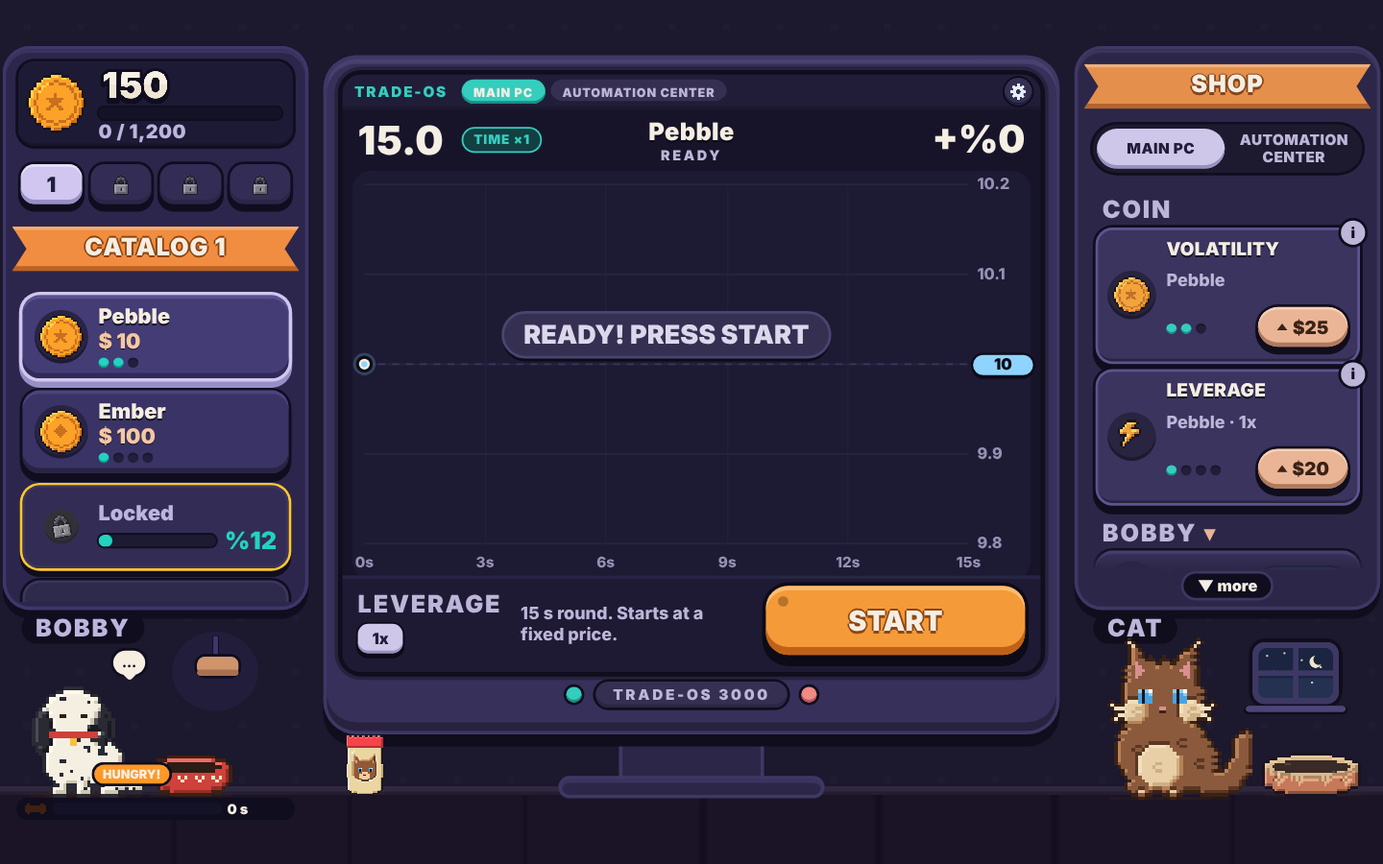
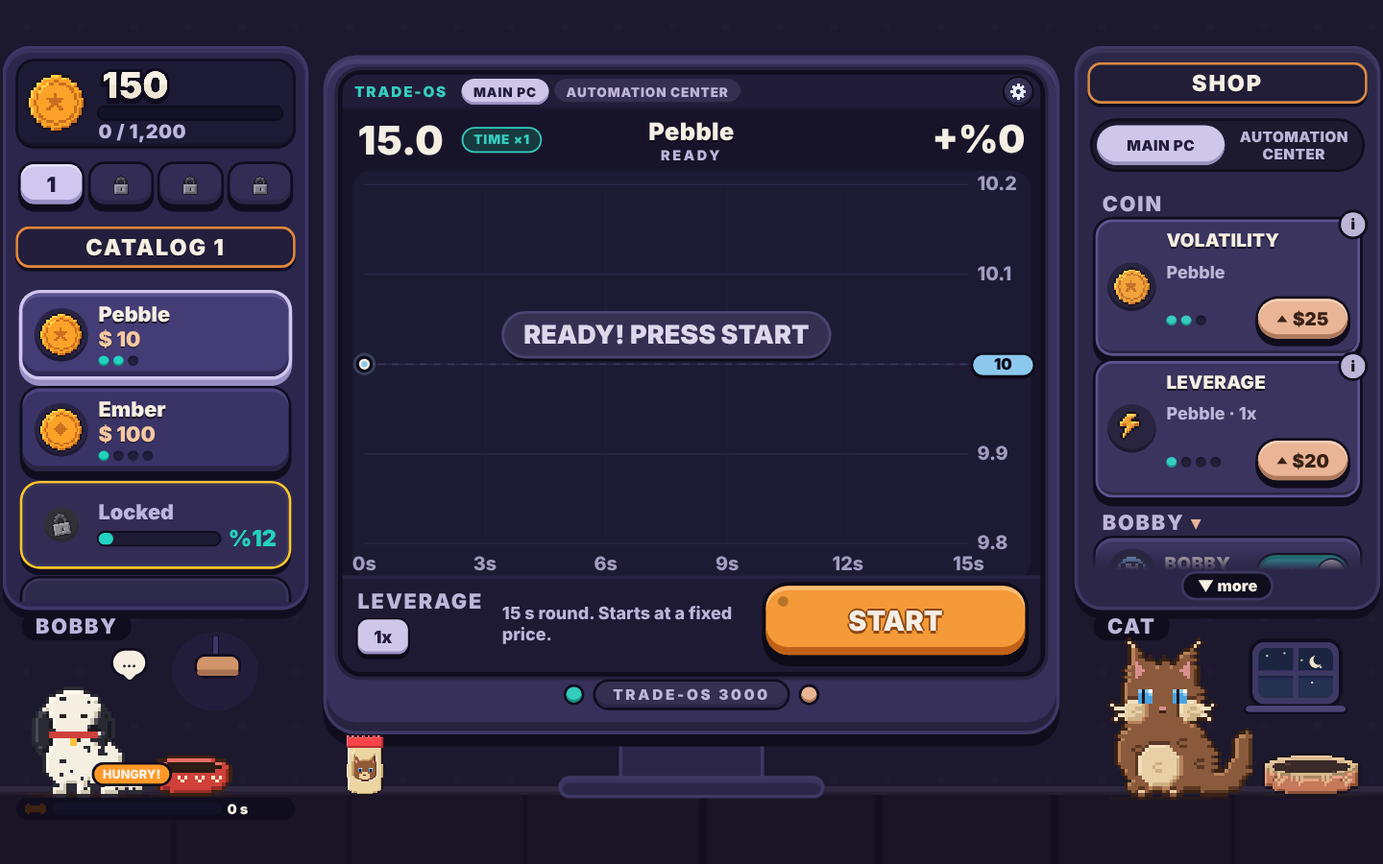
Tasarım Tur2 Adım 3: monitör, grafik, işlem butonları; Ortak tavsiye 2 — smoke 63/63
Claude-Session: https://claude.ai/code/session_01VDVDeJVYoXzWZHeVKGLAfX

diff --git a/index.html b/index.html
@@ -810,7 +810,6 @@ body.rm .pl{animation:none!important}
 /* hayvan alanı etiketleri (BOBBY / KEDİ) */
 .botp .cap,body.soft .botp .cap{font:900 28px/36px var(--k-fr)!important;padding:0 16px!important;top:2px!important}
 /* monitör: altın sayısı bire insin (Ortak tavsiye 1 · madde 2) */
-#hN{color:var(--k-tx)!important}
 .chin span{background:#353052!important;color:var(--k-tx2)!important;box-shadow:0 0 0 3px var(--k-ol),inset 0 -4px 0 #2A2644!important}
 #lvr{font-size:28px!important}#lvr span{line-height:1.1}
 #lvr .pbtn.ac{background:var(--k-li)!important;color:var(--k-lit)!important;box-shadow:0 0 0 2px #0D0B17,0 4px 0 2px #0D0B17,inset 0 -3px 0 var(--k-lid)!important}
@@ -839,6 +838,72 @@ body.rm .pl{animation:none!important}
 #bbub{top:46px!important}
 /* "daha fazla" için panelin içinde ayrı alt şerit: hiçbir kartı örtmez */
 #shop,body.soft #shop{margin-bottom:36px!important}
+
+/* =====================================================================
+   TUR 2 / ADIM 3 — monitör, grafik, işlem butonları, haber, boss, robot bölmeleri, fiş, kâr balonu
+   Kâr = nane (#62CDAA, ▲) · zarar = kehribar (#C9A07A, ▼) · nötr = gök (#8CC8EE). Kırmızı-yeşil yok, nabız yok.
+   ===================================================================== */
+/* sistem çubuğu: seçili sekme lila-krem (seçili dili) */
+.osbar .tabs button.on{background:var(--k-li)!important;color:var(--k-lit)!important;box-shadow:inset 0 -3px 0 var(--k-lid)!important}
+.osbar .tabs button{height:30px!important;font-size:15px!important}
+.chin .pled:last-child{background:var(--k-pe)!important;box-shadow:0 0 0 3px var(--k-ol),inset 0 -3px 0 var(--k-ped)!important}
+/* üst bilgi */
+#hPs{font-size:17px!important}
+#lcdT{background:#173A3E!important}
+/* kaldıraç seçimi: daha büyük dokunma hedefi */
+#lvr .pbtn{height:40px!important;min-width:58px!important;font-size:20px!important}
+/* ana düğme: AL turkuaz bir ton sakin */
+#main.buy{background:#3CC2B4!important;box-shadow:0 0 0 4px #0D0B17,0 9px 0 4px #0D0B17,inset 0 5px 0 #7DD8CD,inset 0 -9px 0 #1C8A7F!important}
+#main:disabled{background:#332E50!important;color:#A39DBE!important}
+/* haber bandı: nötr; etiket lila hap, yanıp sönme yok */
+#news{background:#2E2A4C!important;box-shadow:inset 0 -4px 0 #24203C!important;color:var(--k-tx)!important}
+#news b{background:#5A5288!important;color:var(--k-tx)!important}
+/* boss: sakin, sabit ve ince gül-mor iç kenar */
+.screen.bossin::before{box-shadow:inset 0 0 0 4px #7A5674!important}
+/* otomasyon bölmeleri: boş bölme okunur, kilitli soluk değil sakin */
+.tile.lock{opacity:1!important}
+.tile,.tile:nth-child(odd){background:#1E1A35!important;box-shadow:0 0 0 4px #2E2A4A,inset 0 0 0 1px #2E2A4A!important}
+.tile.add{box-shadow:0 0 0 4px var(--k-pe)!important}
+/* tur sonu fişi: kâr nane ▲, zarar kehribar ▼ */
+#receipt .up{color:#7FD8BC!important}#receipt .dn{color:#C9A27E!important}
+#receipt .rw span.up::before{content:'▲ '}#receipt .rw span.dn::before{content:'▼ '}
+#receipt h3.up{color:#7FD8BC!important}#receipt h3.dn{color:#C9A27E!important}
+/* kâr balonu: nane, toplam 600 ms (≤180 ms pop) */
+.pl{animation:k3pl2 .6s cubic-bezier(.2,1.2,.5,1) forwards!important}
+.pl.win{background:#123A30!important;box-shadow:0 0 0 3px #62CDAA,0 5px 0 3px var(--k-ol)!important}
+.pl.loss{background:var(--k-pn)!important;box-shadow:0 0 0 3px #6E6894!important}
+@keyframes k3pl2{0%{transform:translate(-50%,-50%) scale(.6);opacity:0}30%{transform:translate(-50%,-50%) scale(1.06);opacity:1}45%{transform:translate(-50%,-50%) scale(1)}80%{opacity:1}100%{transform:translate(-50%,-110%) scale(1);opacity:0}}
+body.rm .pl{animation:none!important;transform:translate(-50%,-50%)!important}
+/* sistemin "hareketi azalt" tercihi: pop, squish ve kayma kapalı (renk + sayı değişimi sürer) */
+@media (prefers-reduced-motion:reduce){.pl{animation:none!important;transform:translate(-50%,-50%)!important}
+ #main,#right .go,.tb,.tk,.mbtn,#lvr .pbtn,.sw,.sw i,#receipt.out{transition:none!important;animation:none!important}
+ #main:active,#right .go:active,.tb:active,.tk:active,.mbtn:active,#lvr .pbtn:active{transform:none!important}}
+
+
+/* üst bilgi: coin adı krem (boss'ta sönük gül), büyük yüzdenin önünde küçük ▲/▼ şekli */
+#hN{color:var(--k-tx)!important}.screen.bossin #hN{color:#E6C3D2!important}
+#hP[data-d=up]::before,#hP[data-d=dn]::before{display:inline-block;font-size:26px;vertical-align:middle;margin:-6px 8px 0 0}
+#hP[data-d=up]::before{content:'▲'}#hP[data-d=dn]::before{content:'▼'}
+/* ---- Ortak tavsiye 2 ---- */
+/* afişler: koyu nötr dolgu + ince turuncu kenar (dolgu doygunluğu %29), krem yazı; şerit uçları yok */
+.sign,#sign,#msign,body.soft .sign,#robsec .rsign{clip-path:none!important;border-radius:16px!important;background:#221E38!important;color:var(--k-tx)!important;
+ box-shadow:inset 0 0 0 3px #D98A45,0 4px 0 0 var(--k-ol)!important;text-shadow:0 2px 0 var(--k-ol)!important;height:48px!important;line-height:48px!important;margin:12px 8px 8px!important;font-size:26px!important;letter-spacing:2px!important}
+#robsec .rsign{font-size:18px!important;letter-spacing:.5px!important;padding:0 12px!important;height:44px!important;line-height:44px!important;margin:14px 0 8px!important}
+/* alınamaz hap: yazı tam okunur (5.6:1), kenar kartın üstünde 3.2:1 */
+#right .go[data-dis],#right .go.unl[data-dis]{color:#DDD7EC!important;box-shadow:0 0 0 2px #8A84AA,0 0 0 4px var(--k-ol),0 6px 0 4px var(--k-ol),inset 0 -5px 0 #39345A!important}
+#right .go[data-dis] i.up{border-bottom-color:#DDD7EC!important}
+/* etiketler: masaüstünde 24 px (telefonda fit() ile ≥12 px, Adım 4) */
+.shd,#right .shd{font-size:24px!important}
+.br small,#right .sc.bob .br small,body.soft .br small{font-size:24px!important}
+.botp .cap,body.soft .botp .cap{font-size:24px!important;line-height:32px!important}
+#lvr{font-size:24px!important}
+.tk .lkp small{font-size:26px}
+/* kâr pop'u: tek hareket (yumuşak yükselip kaybolma), 600 ms; zararda animasyon yok */
+.pl{animation:k3pl3 .6s ease-out forwards!important}
+@keyframes k3pl3{0%{transform:translate(-50%,-30%);opacity:0}20%{opacity:1}75%{opacity:1}100%{transform:translate(-50%,-90%);opacity:0}}
+.pl.loss{animation:none!important;transform:translate(-50%,-50%)!important}
+body.rm .pl{animation:none!important;transform:translate(-50%,-50%)!important}
+@media (prefers-reduced-motion:reduce){.pl{animation:none!important;transform:translate(-50%,-50%)!important}}
 </style><style>/* === TELEFON: hep yatay oyun (dikeyde 90° döndürülür), sayfa kaymaz, çift dokunuşta büyümez === */
 html,body{position:fixed;inset:0;width:100%;height:100%;overflow:hidden;margin:0;overscroll-behavior:none;-webkit-user-select:none;user-select:none;-webkit-touch-callout:none;-webkit-tap-highlight-color:transparent;-webkit-text-size-adjust:100%}
 *{touch-action:manipulation}canvas,img{-webkit-user-drag:none}#list,#shop,.modal .mp,#mb{touch-action:pan-x pan-y;-webkit-overflow-scrolling:touch}
@@ -1490,8 +1555,8 @@ const overBowl=(x,y)=>{const r=$('#bowl').getBoundingClientRect();return x>=r.le
 function floatText(t,x,y,col){const d=document.createElement('div');d.className='ft';d.textContent=t;d.style.cssText=`left:${x}px;top:${y}px;color:${col}`;document.body.appendChild(d);setTimeout(()=>d.remove(),1000)}
 const NF=[];
 function notifyPL(pl){if(pl===0n)return;const now=performance.now();while(NF.length&&now-NF[0]>1400)NF.shift();const n=NF.length;NF.push(now);
- const d=document.createElement('div');d.className='pl '+(pl>0n?'win':'loss');d.textContent=(pl>0n?'+$':'-$')+cp(pl);d.style.cssText=`left:${clamp(PX+(n%2?26:-26),60,innerWidth-60)}px;top:${clamp(PY-22-n*28,30,innerHeight-20)}px;color:${pl>0n?'#FFC83D':'#BDB6D8'}`;
- document.body.appendChild(d);setTimeout(()=>d.remove(),1150)}
+ const d=document.createElement('div');d.className='pl '+(pl>0n?'win':'loss');d.textContent=(pl>0n?'+$':'-$')+cp(pl);d.style.cssText=`left:${clamp(PX+(n%2?26:-26),60,innerWidth-60)}px;top:${clamp(PY-22-n*28,30,innerHeight-20)}px;color:${pl>0n?'#8FE0C4':'#BDB6D8'}`;
+ document.body.appendChild(d);setTimeout(()=>d.remove(),650)}
 function moveFl(x,y){const c=fl.firstChild;if(c){const cw=c.offsetWidth||c.width,ch=c.offsetHeight||c.height;fl.style.left=x-cw/2+'px';fl.style.top=y-ch/2+'px';const w=cw*1.25;flsh.style.width=w+'px';flsh.style.left=x-w/2+'px';flsh.style.top=y+ch/2+18+'px'}}
 function startDrag(kind,e){if(G.drag||G.drink||S.over)return;G.drag=kind;fl.innerHTML='';{const c=kind==='water'?sackCanvas2(3):sackCanvas(4);if(kind==='water'){c.style.width=FBW*stK()+'px';c.style.height=FBH*stK()+'px'}fl.appendChild(c)}fl.className='tilt';fl.style.display='block';flsh.style.display='block';PX=e.clientX;PY=e.clientY;moveFl(PX,PY);$('#bowl').classList.add('hot')}
 $('#foodw').addEventListener('pointerdown',e=>{if(G.drag||G.drink||S.over)return;e.preventDefault();
@@ -1704,19 +1769,19 @@ function drawTile(i,now){const cv=$('#tc'+i);if(!cv)return;const tile=cv.parentN
  const d=window.devicePixelRatio||1,r=cv.getBoundingClientRect(),W=tile.offsetWidth||200,H=tile.offsetHeight||190,w=Math.max(8,Math.round(r.width*d)),hh=Math.max(8,Math.round(r.height*d));if(cv.width!==w||cv.height!==hh){cv.width=w;cv.height=hh}
  const x=cv.getContext('2d'),k=cv.width/W;x.setTransform(k,0,0,k,0,0);x.fillStyle='#1E1A35';x.fillRect(0,0,W,H);x.textBaseline='middle';x.textAlign='center';
  if(i>=n){if(i===n&&n<RMAX){const ok=afford(RSLOT[n]);x.fillStyle='#E9B596';x.font='900 46px '+KF;x.fillText('+1',W/2,H/2-26);x.font='900 20px '+KF;x.fillText(TT('ROBOT EKLE'),W/2,H/2+10);x.font='900 20px '+KF;x.fillStyle=ok?'#F0C9A8':'#BDB6D8';x.fillText('$'+cp(RSLOT[n]),W/2,H/2+34)}
-  else{x.fillStyle='#5E5888';x.font='900 16px '+KF;x.fillText(TT('BOŞ BÖLME'),W/2,H/2)}x.textAlign='left';return}
+  else{rr(x,10,10,W-20,H-20,14);x.setLineDash([8,8]);x.lineWidth=2;x.strokeStyle='#3E3864';x.stroke();x.setLineDash([]);x.fillStyle='#A39DC0';x.font='900 20px '+KF;x.fillText(TT('BOŞ BÖLME'),W/2,H/2)}x.textAlign='left';return}
  const R=S.rb[i],rt=RBT[i],c=COINS[R.ci],fr=rt?Math.floor(now/420+i)%2:0;x.textAlign='left';x.imageSmoothingEnabled=false;x.drawImage(rSpr(i%6,fr),4,4,30,30);
- x.fillStyle='#FFC83D';x.font='900 15px '+KF;x.fillText('ROBOT-'+(i+1),38,12);x.fillStyle='#BDB6D8';x.font='800 14px '+KF;x.fillText(TT(c.n)+' · '+2**(R.v-1)+'x',38,27);
+ x.fillStyle='#F4EEE3';x.font='900 17px '+KF;x.fillText('ROBOT-'+(i+1),38,12);x.fillStyle='#BDB6D8';x.font='800 15px '+KF;x.fillText(TT(c.n)+' · '+2**(R.v-1)+'x',38,27);
  const L=6,Rr=W-6,T=40,B=H-26,PW=Rr-L,PH=B-T;x.strokeStyle='#2A2645';x.lineWidth=1;x.beginPath();for(let j=0;j<=2;j++){const y=Math.round(T+PH*j/2)+.5;x.moveTo(L,y);x.lineTo(Rr,y)}x.stroke();
  if(!rt){x.fillStyle='#8A84AA';x.font='900 17px '+KF;x.textAlign='center';x.fillText(TT(S.rbOn===0?'DURDURULDU':'YENİ TUR…'),W/2,(T+B)/2);x.textAlign='left';return}
  const t=Math.min(15,(now-rt.t0)/1000*rt.sp),N=Math.max(2,Math.round(PW*Math.max(t,.05)/15/1.5)),vs=[];let mn=1,mx=1;for(let j=0;j<=N;j++){const v=ratioAt(rt.K,t*j/N);vs.push(v);if(v<mn)mn=v;if(v>mx)mx=v}
- const rg=Math.max(mx-mn,.1),y0=mn-rg*.15,y1=mx+rg*.15,X=s=>L+PW*s/15,Y=v=>B-(v-y0)/(y1-y0)*PH,up=vs[vs.length-1]>=1,cc='#8FD3FF',cg='143,211,255';
+ const rg=Math.max(mx-mn,.1),y0=mn-rg*.15,y1=mx+rg*.15,X=s=>L+PW*s/15,Y=v=>B-(v-y0)/(y1-y0)*PH,up=vs[vs.length-1]>=1,cc='#8CC8EE',cg='140,200,238';
  x.setLineDash([3,4]);x.strokeStyle='#3A3660';x.beginPath();x.moveTo(L,Y(1));x.lineTo(Rr,Y(1));x.stroke();x.setLineDash([]);
  x.beginPath();vs.forEach((v,j)=>{const px=X(t*j/N),py=Y(v);j?x.lineTo(px,py):x.moveTo(px,py)});x.lineJoin='round';x.lineCap='round';x.strokeStyle='#0D0B17';x.lineWidth=6;x.stroke();x.strokeStyle=cc;x.lineWidth=3;x.stroke();
- for(const tr of rt.tl){x.fillStyle='#5FE0B8';const bx=X(tr.t0),by=Y(tr.bf/c.pf);x.beginPath();x.moveTo(bx,by+1);x.lineTo(bx+3,by+8);x.lineTo(bx-3,by+8);x.fill();if(!tr.open){const sx=X(tr.t1),sy=Y(tr.sf/c.pf);x.fillStyle=tr.pp>=0?'#FFC83D':'#F08A84';x.beginPath();x.moveTo(sx,sy-1);x.lineTo(sx+3,sy-8);x.lineTo(sx-3,sy-8);x.fill();x.font='900 20px '+KF;x.textAlign='center';x.fillText(tr.liq?TT('LİK'):(tr.pp>=0?'+%':'-%')+Math.abs(tr.pp*100).toFixed(0),sx,Math.max(T+6,sy-14));x.textAlign='left'}}
- if(rt.miss&&!rt.tl.length&&S.cash<COINS[R.ci].p){x.fillStyle='#F2A6A0';x.font='900 15px '+KF;x.textAlign='center';x.fillText(TT('NAKİT YETERSİZ'),W/2,T+12);x.textAlign='left'}
- const ex=X(t),ey=Y(vs[vs.length-1]),pu=.5+.5*Math.sin(now/160);x.fillStyle=`rgba(${cg},${.3+.4*pu})`;x.beginPath();x.arc(ex,ey,6,0,7);x.fill();x.fillStyle='#F4EBDD';x.beginPath();x.arc(ex,ey,2.5,0,7);x.fill();
- x.fillStyle='#8FA0BD';x.font='20px TINum, TIDig, VT323, monospace';x.fillText((15-t).toFixed(1)+'s',6,H-12);const pl=rt.pl;x.textAlign='right';x.fillStyle=pl>=0n?'#4CD08A':'#E5484D';x.fillText((pl>=0n?'+$':'-$')+cp(pl<0n?-pl:pl),W-6,H-12);x.textAlign='left'}
+ for(const tr of rt.tl){x.fillStyle='#4FBFB2';const bx=X(tr.t0),by=Y(tr.bf/c.pf);x.beginPath();x.moveTo(bx,by+1);x.lineTo(bx+3,by+8);x.lineTo(bx-3,by+8);x.fill();if(!tr.open){const sx=X(tr.t1),sy=Y(tr.sf/c.pf);x.fillStyle=tr.pp>=0?'#62CDAA':'#C9A07A';x.beginPath();x.moveTo(sx,sy-1);x.lineTo(sx+3,sy-8);x.lineTo(sx-3,sy-8);x.fill();x.font='900 20px '+KF;x.textAlign='center';x.fillText(tr.liq?TT('LİK'):(tr.pp>=0?'▲ +%':'▼ -%')+Math.abs(tr.pp*100).toFixed(0),sx,Math.max(T+6,sy-14));x.textAlign='left'}}
+ if(rt.miss&&!rt.tl.length&&S.cash<COINS[R.ci].p){x.fillStyle='#C9A27E';x.font='900 15px '+KF;x.textAlign='center';x.fillText(TT('NAKİT YETERSİZ'),W/2,T+12);x.textAlign='left'}
+ const ex=X(t),ey=Y(vs[vs.length-1]);x.fillStyle=`rgba(${cg},.45)`;x.beginPath();x.arc(ex,ey,6,0,7);x.fill();x.fillStyle='#F4EEE3';x.beginPath();x.arc(ex,ey,2.5,0,7);x.fill();
+ x.fillStyle='#A39DC0';x.font='900 18px '+KF;x.fillText((15-t).toFixed(1)+'s',8,H-13);const pl=rt.pl;x.textAlign='right';x.fillStyle=pl>=0n?'#7FD8BC':'#C9A27E';x.fillText((pl>=0n?'▲ +$':'▼ -$')+cp(pl<0n?-pl:pl),W-8,H-13);x.textAlign='left'}
 function autoLoop(now){requestAnimationFrame(autoLoop);if(document.hidden||S.view!=='auto'||!S.spc)return;if(now-(autoLoop.l||0)<48)return;autoLoop.l=now;for(let i=0;i<RMAX;i++)drawTile(i,now)}
 requestAnimationFrame(autoLoop);
 /* ---------- görünüm geçişi, açılış animasyonu, bilgisayar sv.2 ---------- */
@@ -2310,7 +2375,8 @@ function sizeCv(){const sc=$('#screen');SW=sc.offsetWidth||812;SH2=sc.offsetHeig
 function fitF(x,t,mw,px){let s=px;do{x.font='800 '+s+'px '+KF;if(x.measureText(t).width<=mw)break;s--}while(s>12);return '800 '+s+'px '+KF}
 function rr(x,a,b,w,h,r){x.beginPath();x.moveTo(a+r,b);x.arcTo(a+w,b,a+w,b+h,r);x.arcTo(a+w,b+h,a,b+h,r);x.arcTo(a,b+h,a,b,r);x.arcTo(a,b,a+w,b,r);x.closePath()}
 /* K3: tok grafik — iç kart paneli, koyu konturlu kalın çizgi (glow yok), yuvarlak işaretler, hap etiketler.
-   Renk: pozisyon açıkken oyuncunun ALIŞ fiyatına göre (üstü nane, altı mercan); pozisyon yokken nötr gök mavisi. */
+   Renk: pozisyon açıkken oyuncunun ALIŞ fiyatına göre (üstü nane ▲, altı kehribar ▼); pozisyon yokken nötr gök mavisi.
+   Tur 2/Adım 3: kırmızı-yeşil yok, nabız/nefes yok, ızgara sade. */
 function drawChart(now){const cv=$('#cv'),x=cv.getContext('2d'),c=COINS[G.ci];x.setTransform(CVS,0,0,CVS,0,0);x.shadowBlur=0;x.setLineDash([]);
  const L=26,R=SW-84,T=128,B=SH2-148,PW=R-L,PH=B-T,sp=c.pf,act=(G.st==='active'||G.st==='done')&&G.K&&G.K.length,tn=act?G.tn:0,OLC='#0D0B17';
  x.fillStyle=c.boss?'#1F1529':'#17142A';x.fillRect(0,0,SW,SH2);
@@ -2322,14 +2388,14 @@ function drawChart(now){const cv=$('#cv'),x=cv.getContext('2d'),c=COINS[G.ci];x.
  if(G.y0===null||G.y0===undefined){G.y0=t0;G.y1=t1}else{G.y0+=(t0-G.y0)*.1;G.y1+=(t1-G.y1)*.1}
  const X=t=>L+PW*t/15,Y=v=>B-(v-G.y0)/(G.y1-G.y0)*PH;
  /* ızgara: yumuşak, kalın ama silik */
- x.lineWidth=2;x.strokeStyle=c.boss?'#36263F':'#282440';x.beginPath();for(let i=0;i<=4;i++){const y=Math.round(T+PH*i/4);x.moveTo(L,y);x.lineTo(R,y)}x.stroke();
- x.lineWidth=1;x.beginPath();for(let s=3;s<15;s+=3){const xx=Math.round(X(s))+.5;x.moveTo(xx,T);x.lineTo(xx,B)}x.stroke();
- x.textBaseline='middle';x.fillStyle='#9690B4';x.textAlign='left';
- for(let i=0;i<=4;i++){const v=G.y0+(G.y1-G.y0)*(4-i)/4,tx=fa(Math.max(0,v));x.font=fitF(x,tx,SW-R-16,18);x.fillText(tx,R+10,T+PH*i/4)}
- x.font='800 17px '+KF;x.textAlign='center';for(let s=0;s<=15;s+=3)x.fillText(s+'s',X(s),B+22);x.textAlign='left';
+ x.lineWidth=2;x.strokeStyle=c.boss?'#3A2A44':'#2A2645';x.beginPath();for(let i=0;i<=4;i++){const y=Math.round(T+PH*i/4);x.moveTo(L,y);x.lineTo(R,y)}x.stroke();
+ x.lineWidth=1;x.strokeStyle=c.boss?'#30223A':'#24203C';x.beginPath();for(let s=3;s<15;s+=3){const xx=Math.round(X(s))+.5;x.moveTo(xx,T);x.lineTo(xx,B)}x.stroke();
+ x.textBaseline='middle';x.fillStyle='#A39DC0';x.textAlign='left';
+ const tagY=Math.min(B-12,Math.max(T+12,act?Y(G.cur):Y(sp)));for(let i=0;i<=4;i++){const v=G.y0+(G.y1-G.y0)*(4-i)/4,tx=fa(Math.max(0,v));if(Math.abs(T+PH*i/4-tagY)<24)continue;x.font=fitF(x,tx,SW-R-16,22);x.fillText(tx,R+10,T+PH*i/4)}
+ x.font='800 22px '+KF;x.textAlign='center';for(let s=0;s<=15;s+=3)x.fillText(s+'s',X(s),B+24);x.textAlign='left';
  /* başlangıç fiyatı */
  x.setLineDash([8,8]);x.lineWidth=2;x.strokeStyle='#3A3660';x.beginPath();x.moveTo(L,Y(sp));x.lineTo(R,Y(sp));x.stroke();x.setLineDash([]);
- const pos=G.pt&&G.st==='active'?G.pt:null,ref=pos?pos.bf:null,up=pos?G.cur>=ref:true,cc=pos?(up?'#5FE0B8':'#F08A84'):'#8FD3FF',cg=pos?(up?'95,224,184':'240,138,132'):'143,211,255';
+ const pos=G.pt&&G.st==='active'?G.pt:null,ref=pos?pos.bf:null,up=pos?G.cur>=ref:true,cc=pos?(up?'#62CDAA':'#C9A07A'):'#8CC8EE',cg=pos?(up?'98,205,170':'201,160,122'):'140,200,238';
  /* alış fiyatı çizgisi (pozisyon açıkken): kâr/zarar referansı */
  if(pos){const by=Y(ref);x.setLineDash([9,7]);x.lineWidth=2;x.strokeStyle='#A89FC8';x.beginPath();x.moveTo(L,by);x.lineTo(R,by);x.stroke();x.setLineDash([]);
   const lb=LANG==='en'?'BUY':'ALIŞ';x.font='900 14px '+KF;const w=x.measureText(lb).width+18,ly=Math.min(B-12,Math.max(T+12,by));const lx=R-w-8,lyy=ly-30<T?ly+18:ly-18;rr(x,lx,lyy-12,w,24,12);x.fillStyle='#353052';x.fill();x.lineWidth=2;x.strokeStyle=OLC;x.stroke();x.fillStyle='#D3CCEA';x.fillText(lb,lx+9,lyy+1)}
@@ -2337,22 +2403,22 @@ function drawChart(now){const cv=$('#cv'),x=cv.getContext('2d'),c=COINS[G.ci];x.
  if(act){const pts=ys.map((v,i)=>[X(tn*i/N),Y(v)]);ex=pts[pts.length-1][0];ey=pts[pts.length-1][1];
   const path=()=>{x.beginPath();pts.forEach((p,i)=>i?x.lineTo(p[0],p[1]):x.moveTo(p[0],p[1]))};
   path();x.lineTo(ex,B);x.lineTo(pts[0][0],B);x.closePath();x.fillStyle=`rgba(${cg},.13)`;x.fill();
-  x.lineJoin='round';x.lineCap='round';path();x.strokeStyle=OLC;x.lineWidth=10;x.stroke();path();x.strokeStyle=cc;x.lineWidth=5;x.stroke();
+  x.lineJoin='round';x.lineCap='round';const lw=pos&&!up?3:5;path();x.strokeStyle=OLC;x.lineWidth=lw+5;x.stroke();path();x.strokeStyle=cc;x.lineWidth=lw;x.stroke();
   path();x.strokeStyle='rgba(255,255,255,.28)';x.lineWidth=1.5;x.save();x.translate(0,-1.5);x.stroke();x.restore()}
  /* kaldıraç likidasyon çizgisi */
- if(G.pt&&G.pt.lv>1){const ly=Y(G.pt.bf*(1-1/G.pt.lv));x.setLineDash([6,7]);x.lineWidth=2;x.strokeStyle='#C76A86';x.beginPath();x.moveTo(L,ly);x.lineTo(R,ly);x.stroke();x.setLineDash([])}
+ if(G.pt&&G.pt.lv>1){const ly=Y(G.pt.bf*(1-1/G.pt.lv));x.setLineDash([6,7]);x.lineWidth=2;x.strokeStyle='#A8774E';x.beginPath();x.moveTo(L,ly);x.lineTo(R,ly);x.stroke();x.setLineDash([])}
  /* al/sat işaretleri: konturlu yuvarlak rozetler + hap kâr etiketleri */
  const badge=(cx,cy,upw,col)=>{x.beginPath();x.arc(cx,cy,10,0,7);x.fillStyle=col;x.fill();x.lineWidth=3;x.strokeStyle=OLC;x.stroke();x.fillStyle='#F4EEE3';x.beginPath();if(upw){x.moveTo(cx,cy-5);x.lineTo(cx+5,cy+3);x.lineTo(cx-5,cy+3)}else{x.moveTo(cx,cy+5);x.lineTo(cx+5,cy-3);x.lineTo(cx-5,cy-3)}x.closePath();x.fill()};
  if(act&&S.set.mk){const used=[];
   for(const t of G.tl){const bot=t.w!=='Sen',bx=X(t.t0),by=Y(t.bf);
-   if(!t.open){const sx=X(t.t1),sy=Y(t.sf),good=t.pp>=0,col=good?'#FFC83D':'#F08A84';x.lineWidth=2;x.setLineDash([3,5]);x.strokeStyle=good?'rgba(255,200,61,.55)':'rgba(240,138,132,.5)';x.beginPath();x.moveTo(bx,by);x.lineTo(sx,sy);x.stroke();x.setLineDash([])}
+   if(!t.open){const sx=X(t.t1),sy=Y(t.sf),good=t.pp>=0,col=good?'#62CDAA':'#C9A07A';x.lineWidth=2;x.setLineDash([3,5]);x.strokeStyle=good?'rgba(98,205,170,.5)':'rgba(201,160,122,.5)';x.beginPath();x.moveTo(bx,by);x.lineTo(sx,sy);x.stroke();x.setLineDash([])}
    badge(bx,by,true,'#35CDBE');if(bot&&S.set.lb&&DOGI.complete){x.imageSmoothingEnabled=false;x.drawImage(DOGI,bx-16,by+14,32,32)}
-   if(!t.open){const sx=X(t.t1),sy=Y(t.sf),good=t.pp>=0,col=good?'#FFC83D':'#F08A84';badge(sx,sy,false,col);if(bot&&S.set.lb&&DOGR.complete){x.imageSmoothingEnabled=false;x.drawImage(DOGR,sx-16,sy+14,32,32)}
-    x.font='900 17px '+KF;const txt=pcs(t.pp),w=x.measureText(txt).width+20;let px=Math.min(R-w,Math.max(L,sx-w/2)),py=Math.max(T+2,sy-46);for(let k=0;k<6&&used.some(u=>px<u[0]+u[2]&&px+w>u[0]&&py<u[1]+u[3]&&py+26>u[1]);k++)py=Math.max(T+2,py-28);used.push([px,py,w,26]);
-    rr(x,px,py+3,w,26,13);x.fillStyle=OLC;x.fill();rr(x,px,py,w,26,13);x.fillStyle=good?'#FFC83D':'#353052';x.fill();x.lineWidth=2.5;x.strokeStyle=OLC;x.stroke();x.fillStyle=good?'#4A2A00':'#F2B5AE';x.textAlign='left';x.fillText(txt,px+10,py+14)}}}
+   if(!t.open){const sx=X(t.t1),sy=Y(t.sf),good=t.pp>=0,col=good?'#62CDAA':'#C9A07A';badge(sx,sy,false,col);if(bot&&S.set.lb&&DOGR.complete){x.imageSmoothingEnabled=false;x.drawImage(DOGR,sx-16,sy+14,32,32)}
+    x.font='900 17px '+KF;const txt=(t.pp>=0?'▲ ':'▼ ')+pcs(t.pp),w=x.measureText(txt).width+20;let px=Math.min(R-w,Math.max(L,sx-w/2)),py=Math.max(T+2,sy-46);for(let k=0;k<6&&used.some(u=>px<u[0]+u[2]&&px+w>u[0]&&py<u[1]+u[3]&&py+26>u[1]);k++)py=Math.max(T+2,py-28);used.push([px,py,w,26]);
+    rr(x,px,py+3,w,26,13);x.fillStyle=OLC;x.fill();rr(x,px,py,w,26,13);x.fillStyle=good?'#62CDAA':'#353052';x.fill();x.lineWidth=2.5;x.strokeStyle=OLC;x.stroke();x.fillStyle=good?'#0E3326':'#C9A27E';x.textAlign='left';x.fillText(txt,px+10,py+14)}}}
  /* son fiyat: konturlu beyaz nokta (sakin nefes, yanıp sönme yok) + hap fiyat etiketi */
  if(act){x.setLineDash([3,6]);x.strokeStyle=`rgba(${cg},.55)`;x.lineWidth=2;x.beginPath();x.moveTo(ex,ey);x.lineTo(R,ey);x.stroke();x.setLineDash([])}
- const br=G.st==='active'?1.2*Math.sin(now/260):0;
+ const br=0;   /* sabit: nabız yok */
  x.beginPath();x.arc(ex,ey,13+br,0,7);x.fillStyle=`rgba(${cg},.22)`;x.fill();
  x.beginPath();x.arc(ex,ey,8,0,7);x.fillStyle='#F4EEE3';x.fill();x.lineWidth=3.5;x.strokeStyle=OLC;x.stroke();x.beginPath();x.arc(ex,ey,3.5,0,7);x.fillStyle=cc;x.fill();
  {const ty=Math.min(B-12,Math.max(T+12,ey)),tx=fa(G.cur),tw=SW-R-12;rr(x,R+4,ty-12+3,tw,26,13);x.fillStyle=OLC;x.fill();rr(x,R+4,ty-12,tw,26,13);x.fillStyle=cc;x.fill();x.lineWidth=2.5;x.strokeStyle=OLC;x.stroke();
@@ -2360,12 +2426,12 @@ function drawChart(now){const cv=$('#cv'),x=cv.getContext('2d'),c=COINS[G.ci];x.
  if(G.st==='ready'||G.st==='over'){const msg=G.st==='over'?'':LANG==='en'?'READY! PRESS START':'HAZIR! BAŞLA’YA BAS';if(msg){x.font='900 30px '+KF;const w=x.measureText(msg).width+48,cx=(L+R)/2,cy=(T+B)/2-34;
   rr(x,cx-w/2,cy-26+5,w,52,26);x.fillStyle=OLC;x.fill();rr(x,cx-w/2,cy-26,w,52,26);x.fillStyle='#353052';x.fill();x.lineWidth=3;x.strokeStyle='#4A4570';x.stroke();x.fillStyle='#DDD7EC';x.textAlign='center';x.fillText(msg,cx,cy+1);x.textAlign='left'}}}
 function hud(){const c=COINS[G.ci],sp=c.pf,el=G.st==='active'||G.st==='done'?G.tn:0,rem=15-el,hT=$('#hT'),hP=$('#hP'),hN=$('#hN'),hS=$('#hPs');
- const tt=G.st==='done'?'BİTTİ':rem.toFixed(1);if(hT.textContent!==tt){hT.textContent=tt;hT.style.fontSize=tt==='BİTTİ'?'34px':'';hT.style.color=G.st==='active'&&rem<=3?'#FFC83D':'#FFFFFF'}
+ const tt=G.st==='done'?'BİTTİ':rem.toFixed(1);if(hT.textContent!==tt){hT.textContent=tt;hT.style.fontSize=tt==='BİTTİ'?'34px':'';hT.style.color=G.st==='active'&&rem<=3?'#E9B596':'#F4EEE3'}
  const rc=G.cur/sp-1,pos=G.pt&&G.st==='active'?G.pt:null;let pp,col,sub;
- if(pos){const v=eq(pos,G.curU),r=Number(v-pos.st)/Number(pos.st);pp=pcs(r);col=r>=0?'#7FE3C9':'#F2A6A0';sub=L('POZİSYON')+' · '+L('TUR')+' '+pcs(rc)}
+ if(pos){const v=eq(pos,G.curU),r=Number(v-pos.st)/Number(pos.st);pp=pcs(r);col=r>=0?'#7FD8BC':'#C9A27E';sub=L('POZİSYON')+' · '+L('TUR')+' '+pcs(rc)}
  else{pp=pcs(rc);col='#F4EEE3';sub=G.st==='active'||G.st==='done'?L('TUR'):''}
- if(hP.textContent!==pp)hP.textContent=pp;if(hP.dataset.c!==col){hP.dataset.c=col;hP.style.color=col}if(hS&&hS.textContent!==sub)hS.textContent=sub;
- const nn=L(c.n)+(c.boss?' · BOSS':'');if(hN.textContent!==nn){hN.textContent=nn;hN.style.fontSize=nn.length>16?'21px':nn.length>12?'24px':'';hN.style.color=c.boss?'#FFB3C4':'#FFC83D'}}
+ {const dd=pos?(col==='#7FD8BC'?'up':'dn'):'';if(hP.dataset.d!==dd)hP.dataset.d=dd}if(hP.textContent!==pp)hP.textContent=pp;if(hP.dataset.c!==col){hP.dataset.c=col;hP.style.color=col}if(hS&&hS.textContent!==sub)hS.textContent=sub;
+ const nn=L(c.n)+(c.boss?' · BOSS':'');if(hN.textContent!==nn){hN.textContent=nn;hN.style.fontSize=nn.length>16?'21px':nn.length>12?'24px':'';hN.style.color=c.boss?'#E6C3D2':'#F4EEE3'}}
 function cvLoop(now){requestAnimationFrame(cvLoop);if(document.hidden||S.view==='auto')return;sizeCv();drawChart(now);hud()}
 requestAnimationFrame(cvLoop);
 setInterval(()=>{if(!document.hidden&&!S.over&&!PAUSED)S.ptm=(S.ptm||0)+1000},1000);

diff --git a/docs/tasarim/canli/tur-2.md b/docs/tasarim/canli/tur-2.md
@@ -143,3 +143,48 @@ Plan (adımlar): 1) Koyu arka plan + oda; 2) Sol panel + mağaza kartları; 3) M
 4. KATALOG/MAĞAZA/OTOMASYON afişleri koyu nötr dolgu + ince turuncu kenar; dolgu doygunluğu en çok %35.
 5. Masaüstünde etiketler 24 px, telefonda fit() sonrası en az 12 px; grafik eksen sayıları (10.2, 0s...) da en az 12 px ve 4.5:1.
 6. "+$X" kâr pop'u: en çok 600 ms, tek bir hareket, "hareketi azalt" tercihinde yalnız renk+sayı; zararda hiçbir animasyon (titreme, kırmızı flaş) olmasın.
+
+## Adım 3 — Tasarımcı: Danışma 3
+
+**Renk dili (Adım 2'ye eklenenler)**
+- **Kâr:** nane (#62CDAA çizgi, #7FD8BC yazı) ve ▲.
+- **Zarar:** sönük kehribar (#C9A07A çizgi, #C9A27E yazı; doygunluk %41–42, ≤%45) ve ▼.
+- **Pozisyon yokken:** nötr gök mavisi (#8CC8EE).
+- Kırmızı-yeşil yok, mercan yok, nabız ya da nefes animasyonu yok. Kâr/zarar her yerde renk ve şekille gösteriliyor; ikisinin de çizgi kalınlığı ayrıca farklı.
+
+**Ne yaptım**
+- **Grafik:** Kârda kalın (5 px) nane çizgi, zararda ince (3 px) kehribar çizgi. Böylece fark renge bakmadan da okunuyor. Izgara sade ve silik. Eksen sayıları 22 px (eskiden 17–18 px), kontrast 6,5:1. Fiyat etiketi hapı artık eksen sayısının üstüne binmiyor; çakışan sayı atlanıyor. Son fiyat noktasındaki "nefes" kaldırıldı, nokta sabit. Al/sat rozetleri ve kâr etiketleri nane ▲ / kehribar ▼. ALIŞ çizgisi sönük lila-gri, 2 px. Likidasyon çizgisi pembe yerine koyu kehribar ve kesikli.
+- **Üst bilgi:** Büyük yüzde kârda nane, zararda sönük kehribar. Önünde küçük ▲/▼ şekli var (26 px, yüzdenin kendisi 44 px). Sayaç rengi saf beyaz yerine krem; son 3 saniyede yanıp sönmeden şeftaliye geçiyor. Coin adı krem; boss'ta sönük gül rengi.
+- **İşlem düğmeleri:** BAŞLA turuncu (Adım 2'deki gibi %10 sakin). AL turkuaz, bir ton sakin. SAT kârda nane ve "▲ +%x", zararda nötr kart tonu ve "▼ −%x". Ekranda her zaman tek ana düğme var. Kaldıraç seçimi 40 px yüksek, 20 px yazı, seçili olan lila-krem.
+- **Monitör:** Sistem çubuğundaki seçili sekme lila-krem. "TRADE-OS 3000" plakası soluk; mercan LED şeftaliye döndü.
+- **Haber bandı:** Mor-pembe yerine nötr koyu zemin; "SON DAKİKA" küçük lila bir hap. Yanıp sönme yok.
+- **Boss:** Ekranın içinde ince (4 px), sabit, sönük gül-mor bir kenar. Grafik zemini hafif mürdüm. Siren yok, nabız yok. Kendi betiğimle kontrol ettim (aşağıdaki görüntü).
+- **Otomasyon Merkezi:**
+  - "BOŞ BÖLME" 20 px, kontrastı yüksek (#A39DC0) ve kesikli yuvarlak bir çerçeve içinde. Kilitli bölmeler artık %60 saydam değil.
+  - Robot başlığı krem, 17 px. Alttaki süre sayısı pixel font yerine yuvarlak font.
+  - Kâr/zarar yazısı neon yeşil/kırmızı (#4CD08A/#E5484D) yerine nane ▲ / kehribar ▼.
+  - Bitiş noktasındaki hızlı nabız (yaklaşık 3 Hz) kaldırıldı.
+- **Tur sonu fişi:** Kenar nötr. "KÂR!" nane, "ZARAR" kehribar. Değişim satırında ▲/▼ var.
+- **"+$X" kâr pop'u:** Tek hareket (yumuşakça biraz yükselip kayboluyor), toplam 600 ms; 650 ms'de sayfadan da kalkıyor (ölçtüm: 500 ms'de var, 700 ms'de yok). Rengi nane. Zararda animasyon yok, yalnız sabit soluk "−$X" görünüyor. Ayarlardaki "Animasyonları azalt" ile ve artık sistemin "hareketi azalt" tercihiyle (`prefers-reduced-motion`) pop, squish ve kayma kapanıyor; renk ve sayı kalıyor.
+
+**Ortak tavsiye 2'yi nasıl uyguladım**
+1. Zararda büyük yüzde sönük kehribar (#C9A27E, doygunluk %41) ve küçük ▼. Grafik çizgisi zararda 3 px kehribar, kârda 5 px nane.
+2. Alınamaz haplarda yazı #DDD7EC (dolguya karşı 5,6:1'in üstünde). Hapın kenarına açık bir halka eklendi (#8A84AA, karta karşı 3,25:1). Soluk olan yalnız dolgu.
+3. AL turkuaz, SAT kârda nane / zararda nötr. ▲/▼ ve yazı sabit, yeni renk eklenmedi. Ekranda tek ana düğme var.
+4. KATALOG / MAĞAZA / OTOMASYON afişleri koyu nötr dolgulu (#221E38, doygunluk %29), 3 px ince turuncu kenarlı, krem yazılı. Şerit uçları kaldırıldı.
+5. Masaüstünde etiketler 24 px (BOBBY, KEDİ, COİN, SEVİYE, KALDIRAÇ). Grafik eksen sayıları 22 px. Telefonda ≥12 px Adım 4'teki fit() ile gelecek. Eksen kontrastı 6,5:1.
+6. Kâr pop'u 600 ms ve tek hareket. Hareket azaltmada yalnız renk ve sayı kalıyor. Zararda animasyon yok.
+
+**Bakılacak görüntüler**
+- `docs/tasarim/son/desk_tr_zarar.png`: zarar (▼ kehribar yüzde, ince kehribar çizgi, nötr SAT)
+- `docs/tasarim/son/desk_tr_islem.png`, `tel_tr_islem.png`: kâr (▲ nane, nane SAT)
+- `docs/tasarim/son/desk_tr_boss.png`: boss ekranı (sakin kenar)
+- `docs/tasarim/son/desk_tr_fis.png`: tur sonu fişi
+- `docs/tasarim/son/desk_tr_robot.png`: çalışan iki robot, +1 ve boş bölme
+- `docs/tasarim/son/desk_tr_oto.png`, `desk_tr_ana.png`, `desk_en_ana.png`, `tel_tr_ana.png`
+
+**Psikologlara sorular**
+1. Kâr çizgisi kalın, zarar çizgisi ince. Renk körlüğünde de fark okunsun diye yaptım. Zararda inceltmek "kaybı küçük gösterme" gibi yanlış bir mesaj veriyor mu, yoksa sakinleştirici mi?
+2. Son 3 saniyede sayacın şeftaliye dönmesi hafif bir hatırlatma. Bunu da aciliyet baskısı sayıp tamamen kaldıralım mı?
+3. Boss ekranının ince gül-mor kenarı "özel tur" duygusunu veriyor mu, yoksa daha da sade mi olsun (yalnız coin adının yanındaki "BOSS" yazısı)?
+4. Turuncu kenarlı koyu afişler ile turuncu BAŞLA düğmesi aynı turuncuyu paylaşıyor. Afiş kenarı bir ton daha sönük (#B9824A gibi) mi olsun?
